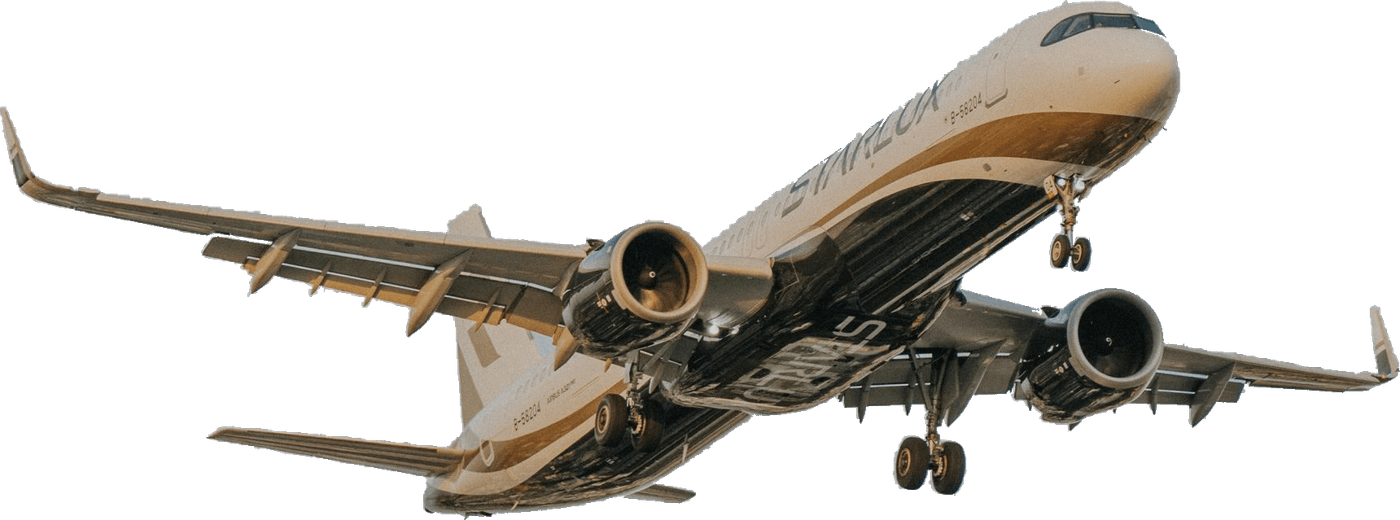
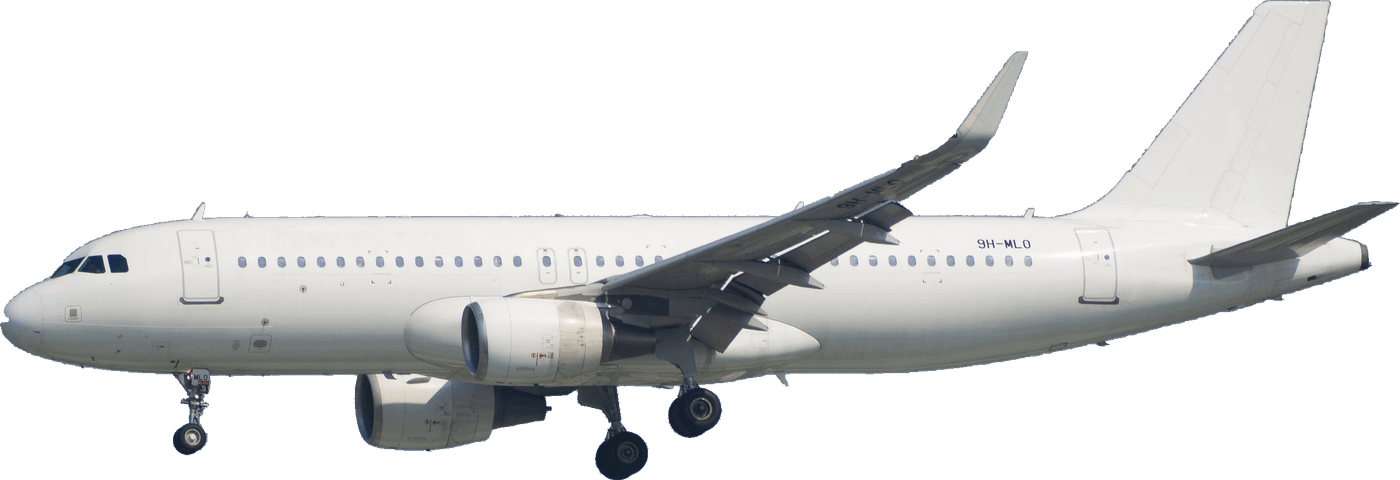
A bigger aircraft, facing the form
Direction matters when the aircraft sits beside the form: one pointing right
flies away from the page and leads the eye off the edge. This one is on
approach with its nose to the LEFT, looking back across the form.

It also carries no airline livery. The last one had another carrier's titles
down the fuselage, which is not something a travel agency's own banner should
be advertising.

Bigger: 634px at 1440 against 547, and 820 at 1920 against 660. The card
gives up the width — 56% — and the two still never meet: checked at seven
widths from 1100 to 1920, the aircraft always starts after the card ends.

Under 1300 the card is about 645px and three columns leave each control
around 195px, which fits the box but not "Select a package" inside it — the
browser clips that without saying so, and the automated overflow check does
not catch a clipped <select>. Two columns below that width.

diff --git a/assets/css/refinements.css b/assets/css/refinements.css
@@ -1951,7 +1951,7 @@ button, input, select, textarea { font: inherit; }
      the same band, so they stay in proportion to each other at every width
      instead of one stretching while the other stays put. */
   .ts--photo .ts__tabs,
-  .ts--photo .ts__card { max-width: 62%; }
+  .ts--photo .ts__card { max-width: 56%; }
 
   /* The five tabs were laid out for a full-width card and need 777px. The
      card here is 636-764, so "Hotels" was sliding under the card's right edge
@@ -1973,6 +1973,15 @@ button, input, select, textarea { font: inherit; }
   .ts--photo .ts-row--3,
   .ts--photo .ts-row--4,
   .ts--photo .ts-row--hotels { grid-template-columns: repeat(3, minmax(0, 1fr)); }
+
+  /* Under 1300 the card is around 645px and three columns leave each control
+     about 195px — enough for the box, not for "Select a package" inside it,
+     which the browser then clips without telling anyone. Two columns. */
+  @media (max-width: 1299px) {
+    .ts--photo .ts-row--3,
+    .ts--photo .ts-row--4,
+    .ts--photo .ts-row--hotels { grid-template-columns: repeat(2, minmax(0, 1fr)); }
+  }
 
   /* "City or area" spans two columns in the full-width layout, which is right
      when the row is four across. In a three-across grid it left a hole beside
@@ -2015,7 +2024,7 @@ button, input, select, textarea { font: inherit; }
   right: 0;
   top: 50%;
   transform: translateY(-50%);
-  width: clamp(360px, 38vw, 660px);
+  width: clamp(420px, 44vw, 820px);
   height: auto;
   z-index: -1;
   pointer-events: none;

diff --git a/src/tools/make-search-backdrop.js b/src/tools/make-search-backdrop.js
@@ -32,9 +32,13 @@ const sharp = require('sharp');
 
 const IMG = path.join(__dirname, '..', '..', 'assets', 'img');
 
-/* Pexels 23508916 — a white airliner in warm low sun, banking towards the
-   viewer. The nearest match to the aircraft in the client's banner. */
-const PLANE_ID = 23508916;
+/* Pexels 38565459 — an unbranded white airliner on approach, nose to the
+   LEFT. Direction matters: the aircraft sits to the right of the form, so one
+   facing right flies away from the page and leads the eye off the edge. This
+   one looks back across the form. It also carries no airline livery, which
+   the previous shot did — another carrier's titles on a travel agency's own
+   banner is not a good look. */
+const PLANE_ID = 38565459;
 /* Pexels 35558117 — gold-lit cloud over blue, the client's palette. */
 const SKY_ID = 35558117;
 
